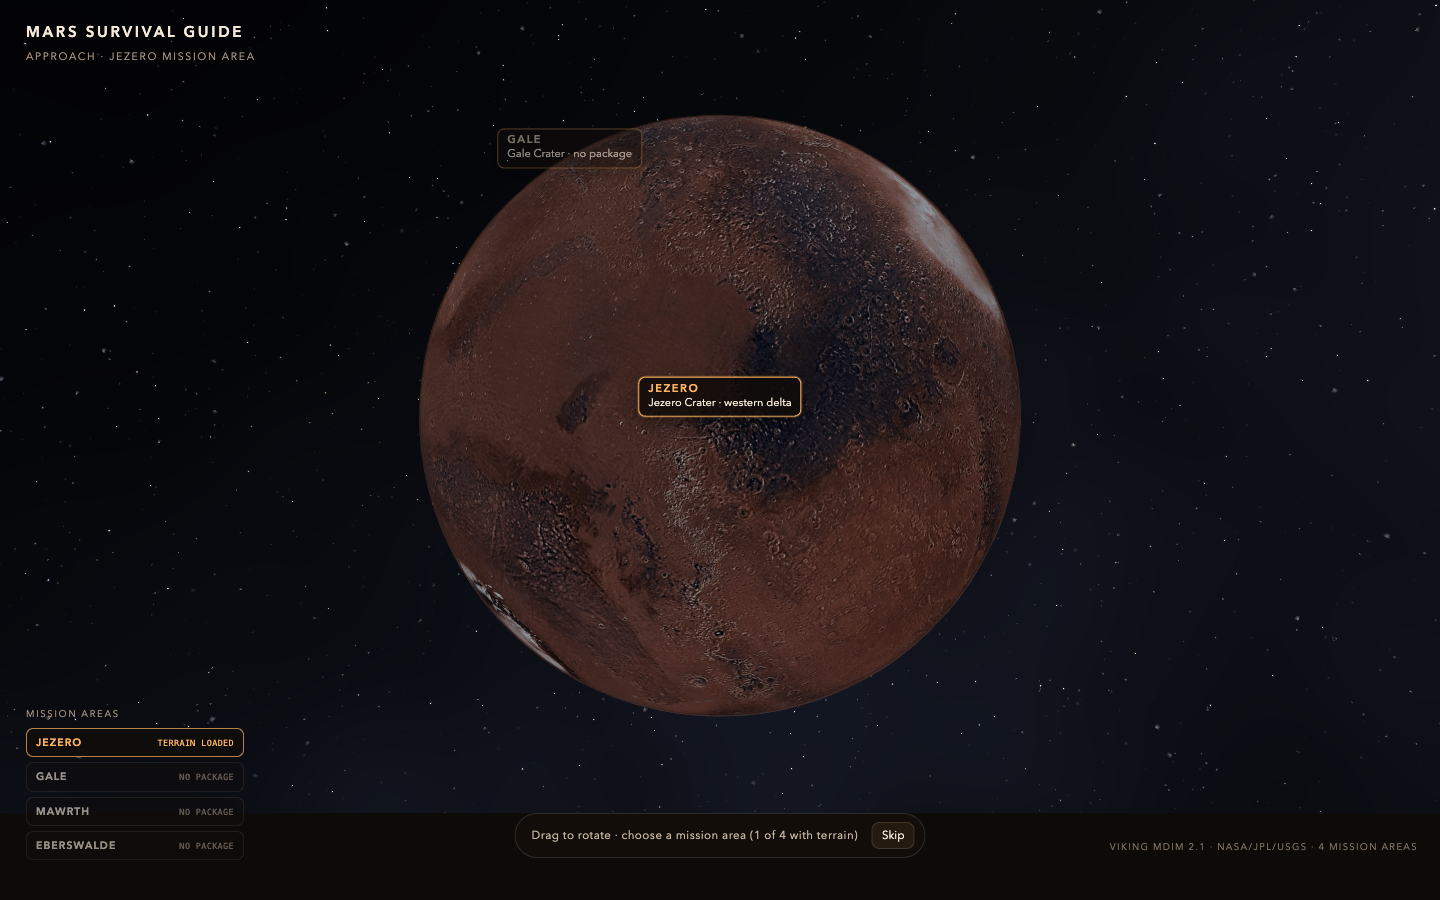
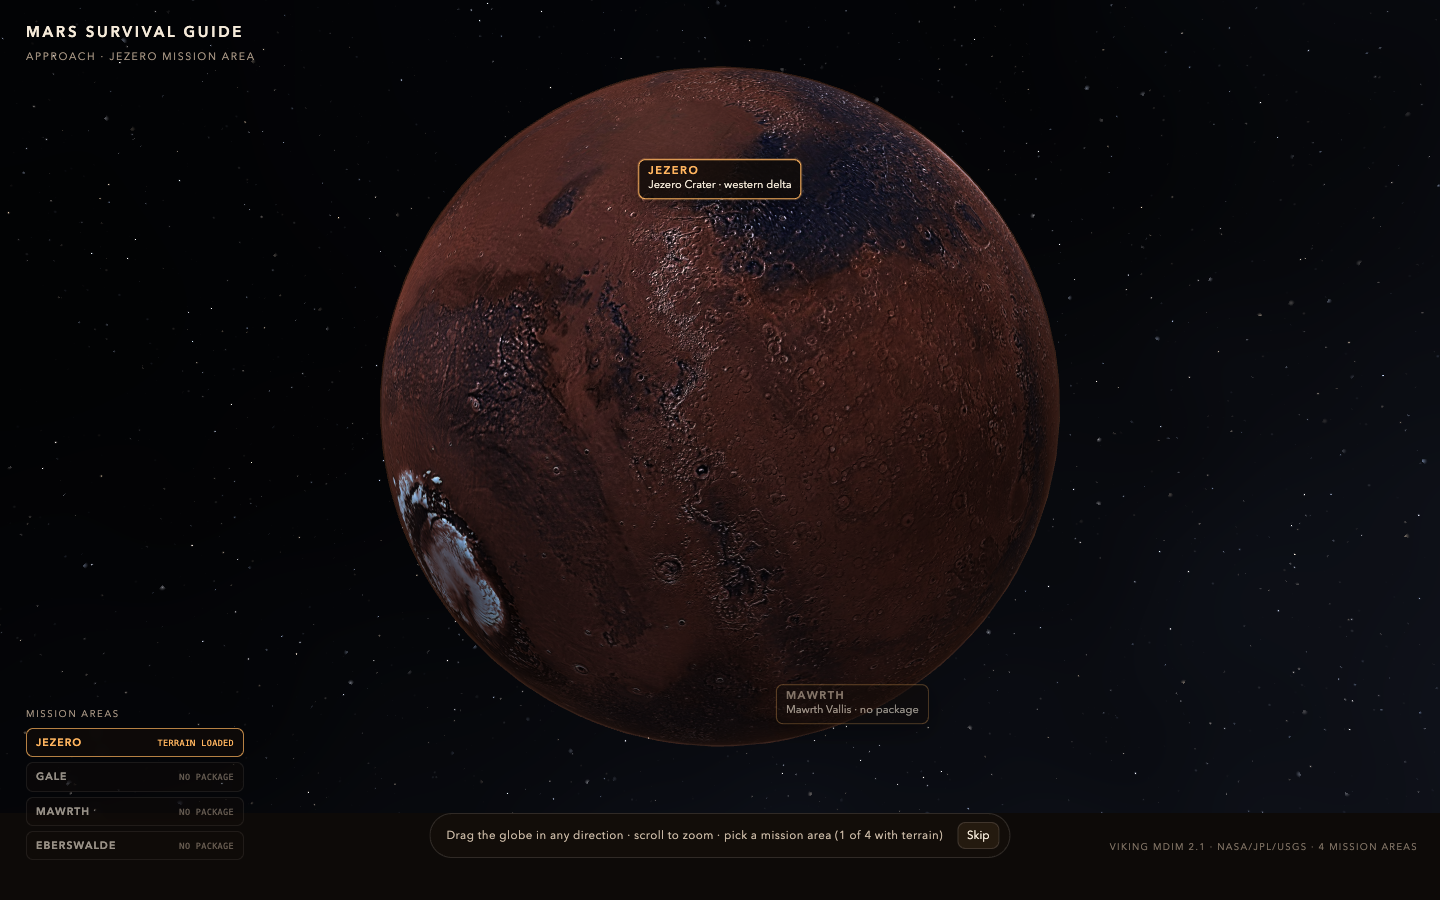
feat(intro): give the globe a real surface material
The scene lights were tuned for the flat satellite terrain, so the planet read
as a uniformly lit plastic ball. Replace its material with a dedicated shader.

- real terminator from a sun term, plus a soft camera-side fill so the visible
  face stays readable without going flat
- normal map derived from the albedo luminance (artistic micro-relief, not a
  measured global DEM) so craters and ridges catch the light
- restrained sun highlight and an atmospheric rim; the photo is still the
  base colour, just graded slightly
- the dive fade now drives the shader's uOpacity instead of material.opacity

Changed region(s): [[0.25, 0.0622, 0.75, 0.8089], [0.3125, 0.9022, 0.6875, 0.9333]]

diff --git a/src/ui/MarsScene.tsx b/src/ui/MarsScene.tsx
@@ -23,6 +23,7 @@ import type { MissionLocation } from "../domain/missions.js";
 import { overviewPose, worldTransform } from "../domain/world.js";
 import type { Lang } from "./i18n.js";
 import { SpaceBackdrop } from "./SpaceBackdrop.js";
+import { SUN_DIR } from "./SceneDressing.js";
 import { RegionalPlane } from "./RegionalPlane.js";
 
 const GLOBE_TEXTURE = "/data/mars/viking_mdim21_color_3840.jpg";
@@ -111,8 +112,19 @@ export function MarsScene({
   const texture = useTexture(GLOBE_TEXTURE);
   texture.colorSpace = THREE.SRGBColorSpace;
   texture.anisotropy = 8;
+  const normalMap = useTexture("/data/mars/mars_normal_1024.png");
+  normalMap.colorSpace = THREE.NoColorSpace;
   // stable uniforms: a fresh object each render would reset the fade
   const hazeUniforms = useMemo(() => ({ uOpacity: { value: 1 } }), []);
+  const globeUniforms = useMemo(
+    () => ({
+      uMap: { value: texture },
+      uNormal: { value: normalMap },
+      uSun: { value: SUN_DIR.clone() },
+      uOpacity: { value: 1 },
+    }),
+    [texture, normalMap],
+  );
 
   const t = useMemo(() => worldTransform(pkg.terrain), [pkg]);
   // the loaded package defines where the globe must point: its centre is the
@@ -125,7 +137,7 @@ export function MarsScene({
     [normal],
   );
 
-  const globeMat = useRef<THREE.MeshStandardMaterial | null>(null);
+  const globeMat = useRef<THREE.ShaderMaterial | null>(null);
   const hazeMat = useRef<THREE.ShaderMaterial | null>(null);
   const center = useRef<THREE.Group | null>(null);
   const globeGroup = useRef<THREE.Group | null>(null);
@@ -319,7 +331,7 @@ export function MarsScene({
     const mat = globeMat.current;
     if (mat !== null) {
       const o = opacity.current;
-      mat.opacity = o;
+      (mat.uniforms.uOpacity as { value: number }).value = o;
       mat.visible = o > 0.01;
       if (hazeMat.current !== null) {
         (hazeMat.current.uniforms.uOpacity as { value: number }).value = o;
@@ -346,14 +358,62 @@ export function MarsScene({
       <group ref={center} position={[0, -MARS_RADIUS, 0]} name="mars-globe">
         <group ref={globeGroup} quaternion={spin}>
           <mesh ref={globeMesh}>
-            <sphereGeometry args={[MARS_RADIUS, 128, 96]} />
-            <meshStandardMaterial
+            <sphereGeometry args={[MARS_RADIUS, 192, 128]} />
+            <shaderMaterial
               ref={globeMat}
-              map={texture}
-              roughness={1}
-              metalness={0}
+              uniforms={globeUniforms}
               transparent
               fog={false}
+              toneMapped={false}
+              vertexShader={/* glsl */ `
+                varying vec2 vUv;
+                varying vec3 vN;
+                varying vec3 vP;
+                void main() {
+                  vUv = uv;
+                  vN = normalize(mat3(modelMatrix) * normal);
+                  vec4 wp = modelMatrix * vec4(position, 1.0);
+                  vP = wp.xyz;
+                  gl_Position = projectionMatrix * viewMatrix * wp;
+                }
+              `}
+              fragmentShader={/* glsl */ `
+                varying vec2 vUv;
+                varying vec3 vN;
+                varying vec3 vP;
+                uniform sampler2D uMap;
+                uniform sampler2D uNormal;
+                uniform vec3 uSun;
+                uniform float uOpacity;
+
+                void main() {
+                  vec3 base = texture2D(uMap, vUv).rgb;
+                  // keep the photo, just a little richer
+                  base = mix(vec3(dot(base, vec3(0.299, 0.587, 0.114))), base, 1.12) * 1.04;
+                  vec3 N = normalize(vN);
+                  vec3 T = normalize(cross(vec3(0.0, 1.0, 0.0), N));
+                  vec3 B = normalize(cross(N, T));
+                  vec3 nm = texture2D(uNormal, vUv).rgb * 2.0 - 1.0;
+                  vec3 Nw = normalize(T * nm.x + B * nm.y + N * nm.z);
+
+                  vec3 V = normalize(cameraPosition - vP);
+                  float ndl = dot(Nw, normalize(uSun));
+                  float day = smoothstep(-0.55, 0.5, ndl);
+                  // a soft camera-side fill keeps the visible face readable
+                  // while the terminator stays on the limb
+                  float fill = 0.5 + 0.5 * dot(Nw, V);
+                  vec3 col = base * (0.10 + 1.0 * day + 0.55 * fill);
+
+                  vec3 H = normalize(normalize(uSun) + V);
+                  float spec = pow(max(dot(Nw, H), 0.0), 28.0) * 0.05 * day;
+                  col += vec3(1.0, 0.82, 0.66) * spec;
+
+                  float fres = pow(1.0 - max(dot(N, V), 0.0), 4.0);
+                  col += vec3(1.0, 0.5, 0.26) * fres * 0.10;
+
+                  gl_FragColor = vec4(col, uOpacity);
+                }
+              `}
             />
           </mesh>
           <mesh scale={1.004}>

diff --git a/README.md b/README.md
@@ -28,7 +28,7 @@ This is a local application (run with `npm run dev`). There is no live deploymen
 - Site selection plays a two-stage camera: first focus on the site, then pull back until the whole round trip fills the frame at a close 45° oblique. Screen-space label placement keeps the selected site and base labels clear of the plan by nudging them (and hides non-selected site labels while a plan is shown); the cut-away block reads in the overview. A skippable opening camera move runs on load; `prefers-reduced-motion` goes straight to stable views.
 - A display-only cut-away block (side faces, synthetic strata, lit rim, base slab) gives the plate physical weight; its top edge follows the real DEM cells and the strata pattern is labelled artistic in the legend and the sources drawer.
 - A baked display surface replaces the single-band ortho and stays led by the photograph: the real CTX luminance supplies the tone and structure, a near-neutral warm tint only lifts it to screen range, and slope/curvature plus a faint DEM horizon-scan shadow modulate it by a few percent. Micro-relief normals keep close views from turning to mush. Sky gradient, ground haze, dust and a bloom chain finish the frame; all of it is display-only and labelled, and the 2D plan view still draws the untouched ortho.
-- From Mars: the app opens on a real Viking MDIM 2.1 globe (NASA/JPL/USGS, public domain, shipped with the app) at true scale. Mission locations come from `public/data/missions.json`: entries with a `path` have a terrain package and can be entered (Jezero in this build); the rest are future areas marked `NO PACKAGE`. Adding a location is one manifest entry plus its package — the globe re-orients on the loaded package's lat/lon bounds and the pin appears. The globe is a trackball: drag in any direction and the surface follows, with no angle limits; the wheel zooms 1.35–4.2 R. One camera and one scene: clicking an available location dollies in three staged pushes with short holds and a loading readout, from a near-vertical orbit to the region's oblique overview (dynamic near/far, no cut); the globe fades between 70 and 30 km and a real 60 km CTX regional tile takes over, so its 1 km/px imagery is never magnified into mush, and the normal sandbox takes over. `Skip` / Esc, `?intro=off`, `?intro=auto`, `prefers-reduced-motion`, and a `From Mars` toolbar button control it. On landing a 2.4 s scan line sweeps the finished display surface; the texture is never swapped, so there is no colour jump. Skipping or reduced motion does not play it.
+- From Mars: the app opens on a real Viking MDIM 2.1 globe (NASA/JPL/USGS, public domain, shipped with the app) at true scale. Mission locations come from `public/data/missions.json`: entries with a `path` have a terrain package and can be entered (Jezero in this build); the rest are future areas marked `NO PACKAGE`. Adding a location is one manifest entry plus its package — the globe re-orients on the loaded package's lat/lon bounds and the pin appears. The globe is a trackball: drag in any direction and the surface follows, with no angle limits; the wheel zooms 1.35–4.2 R. Its material is a custom shader with a real terminator, a camera-side fill, a sun highlight and an atmospheric rim, plus a normal map derived from the albedo luminance for micro-relief (artistic, not a measured global DEM). One camera and one scene: clicking an available location dollies in three staged pushes with short holds and a loading readout, from a near-vertical orbit to the region's oblique overview (dynamic near/far, no cut); the globe fades between 70 and 30 km and a real 60 km CTX regional tile takes over, so its 1 km/px imagery is never magnified into mush, and the normal sandbox takes over. `Skip` / Esc, `?intro=off`, `?intro=auto`, `prefers-reduced-motion`, and a `From Mars` toolbar button control it. On landing a 2.4 s scan line sweeps the finished display surface; the texture is never swapped, so there is no colour jump. Skipping or reduced motion does not play it.
 - Helmet cam: ride the astronaut's own eye level along the computed route (position and bearing come from the deterministic runtime, so scrubbing the timeline moves the view). Suit HUD shows O₂/PWR, leg, phase, T+, bearing and eye height; it is labelled as a simulated position with artistic near-field detail, and needs a started mission.
 - A pulsing base beacon, a light travelling the planned route, and a red screen pulse when an event lands — all display-only.
 - A 70 m terrain-snapped selection ring, base flag, and astronaut figure provide scale references. The astronaut is true 1.7 m scale, paired with a magnified position light pillar so the location is visible from overview distance — the legend states the pillar is not to scale.

diff --git a/docs/VISUAL-DIRECTION.md b/docs/VISUAL-DIRECTION.md
@@ -71,7 +71,7 @@
 - 第三批（2026-11-15 已实现）：头盔/第一人称视角（沿真实模拟位置与行进方位、极简 HUD、近景岩块）、基地信标呼吸光、路线移动光点、事件红脉冲；2D 视图与数值不变。
 - 第二批（2026-11-15 已实现）：加载期一次性烘焙"显示地表"（真实正射亮度 × 坡度/曲率配色、DEM horizon-scan 长阴影、微观起伏法线、反锐化细节）、天空渐变与雾、尘粒、ACES 色调映射、泛光链（首 1.6 s 平均低于 30 fps 时自动关闭）；垂直起伏由 ×3 提升到 ×4.5 并改标注。2D 视图保持原生正射不变。参数与验收见 [3D 视觉升级方案](VISUAL-UPGRADE-PLAN.md)。
 - 第四批（2026-11-15 已实现）：地表回归卫星影像。反照率以正射灰度作为明暗与结构的唯一来源，配色改为近中性暖灰色带，坡度/曲率只做 6%–10% 的提示，烘焙长阴影降到 0.10；主光由 2.8 降到 0.45、环境光承担基础照明，法线强度与泛光同步降低，剖切层理降饱和。卫星图上的三角洲前缘、河道与陨石坑在 3D 中可逐一对上。
-- 第五批（2026-11-15 已实现）：开场"从火星一镜到底到任务区域"。真实比例的 Viking MDIM 2.1 球体与地形共用一个相机，任务地点来自 `public/data/missions.json`；点击有数据包的地点后，相机沿对数距离从行星轨道落到该区域的整块 `overviewPose`，球体在 9–2.6 km 高度区间淡出，无切镜。Jezero 可用，Gale / Mawrth / Eberswalde 作为未来地点标注 `NO PACKAGE`；新增地点只需清单条目 + 数据包。左下角任务清单与球面引脚同步；球体是固定斜视机位上的 trackball，任意方向拖动都跟手、无角度限制，滚轮缩放，俯冲分 3 级并显示加载进度，从竖直视角连续转到斜视；中间用 60 km 的真实 CTX 区域影像接管，避免把全球图放大成糊片；太空背景为程序化星场 + 银河带 + 冷色星云 + 太阳辉光（显示层装饰，不是星表）；落地后一条扫描光带扫过完整显示地表（不切换数据栅格，避免跳变）。
+- 第五批（2026-11-15 已实现）：开场"从火星一镜到底到任务区域"。真实比例的 Viking MDIM 2.1 球体与地形共用一个相机，任务地点来自 `public/data/missions.json`；点击有数据包的地点后，相机沿对数距离从行星轨道落到该区域的整块 `overviewPose`，球体在 9–2.6 km 高度区间淡出，无切镜。Jezero 可用，Gale / Mawrth / Eberswalde 作为未来地点标注 `NO PACKAGE`；新增地点只需清单条目 + 数据包。左下角任务清单与球面引脚同步；球体是固定斜视机位上的 trackball，任意方向拖动都跟手、无角度限制，滚轮缩放；材质带晨昏线、法线微起伏与大气边缘光，俯冲分 3 级并显示加载进度，从竖直视角连续转到斜视；中间用 60 km 的真实 CTX 区域影像接管，避免把全球图放大成糊片；太空背景为程序化星场 + 银河带 + 冷色星云 + 太阳辉光（显示层装饰，不是星表）；落地后一条扫描光带扫过完整显示地表（不切换数据栅格，避免跳变）。
 
 ## 美术与科学的边界
 

diff --git a/docs/VISUAL-UPGRADE-PLAN.md b/docs/VISUAL-UPGRADE-PLAN.md
@@ -70,7 +70,8 @@
 用户要的不是"从火星落到站点"，而是**从整颗火星落到这次任务的区域**，并且以后能在同一颗星球上标出更多任务地点、选一个加载。第五批按这个模型重做：
 
 - 一个场景、一个相机：真实比例的 Viking MDIM 2.1 球体（R = 3,396.19 km）挂在地形原点下方，当前数据包的中心点与地形原点重合。点击可用的任务地点后，相机沿对数距离从 8.0×10³ km 落到该区域的 `overviewPose`（整块 5.12 km 沙盘），全程没有第二个画布、没有切镜。
-- 星球是真正的 trackball：相机固定在 29° 离极、34° 方位的斜视机位，拖动直接旋转球体本身（把屏幕位置映射到虚拟球，任意方向跟手，没有极角/方位限制），滚轮缩放 1.35R–4.2R。点击任务点后球体在俯冲头 0.7 s 内回正，保证镜头落在被点的引脚上。球体贴图 3840×1920。
+- 星球是真正的 trackball：相机固定在 29° 离极、34° 方位的斜视机位，拖动直接旋转球体本身（把屏幕位置映射到虚拟球，任意方向跟手，没有极角/方位限制），滚轮缩放 1.35R–4.2R。点击任务点后球体在俯冲头 0.7 s 内回正。
+- 球体材质：3840×1920 彩色镶嵌 + 从同一张影像亮度梯度派生的 1024×512 法线贴图（艺术微起伏，非实测全球 DEM），自定义着色器给真实晨昏线、相机侧柔和补光、太阳高光与大气边缘光——解决之前"均匀打光的塑料球"观感。
 - 分级俯冲：4.8 s 拆成 3 段，每段缓动后在下一段前停 0.18 s，像地图瓦片逐级解析；底部出现 `RESOLVING SURFACE · n/3` 进度条。相机从近乎竖直开始，随进度连续转到总览的 35° 斜视。
 - 球体在距地表 70 km → 30 km 之间淡出：再近就会把 1 km/px 的全球图放大成糊片；中间接管的是 60 km 区域影像（第七批），不是继续放大全球图。
 - 任务地点来自 [`public/data/missions.json`](../public/data/missions.json)：Jezero 带 `path` 与 `package: true`，可以加载；Gale、Mawrth、Eberswalde 作为"未来任务地点"画在同一颗星球上（标注 NO PACKAGE，点击只提示）。新增一个地点 = 在清单里加一条 lat/lon + 把数据包放到对应 `path`，球体自动按新包的中心重定向，引脚自动出现。

diff --git a/public/data/mars/README.md b/public/data/mars/README.md
@@ -14,6 +14,13 @@ the earlier 2048-wide copy and is kept for reference.)
 - **Processing:** resized to 3840 × 1920 with Lanczos, no colour grading,
   reprojection or feature retouching. The 2048-wide copy was resized the same way.
 
+## Globe normal map
+
+`mars_normal_1024.png` — 1024 × 512 tangent-space normal map derived from the
+luminance gradient of the same globe image (1.1 px blur, scale 3.2). It adds
+micro-relief shading to the globe; it is **artistic display detail**, not a
+measured global DEM, and is never used for any computation.
+
 ## Regional LOD (Jezero)
 
 `jezero_region_60km.jpg` — 2048 × 2048, colourised with the sandbox's own ramp.
